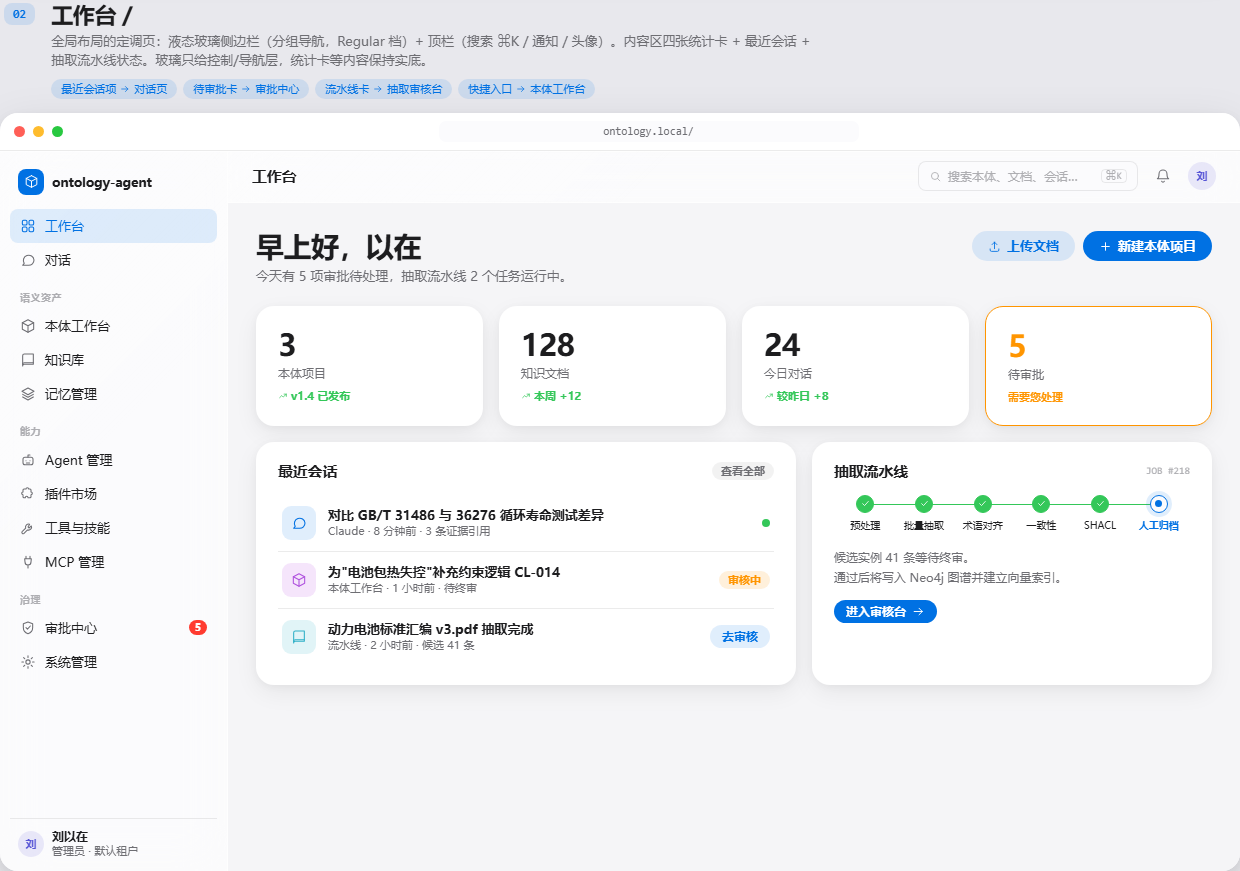
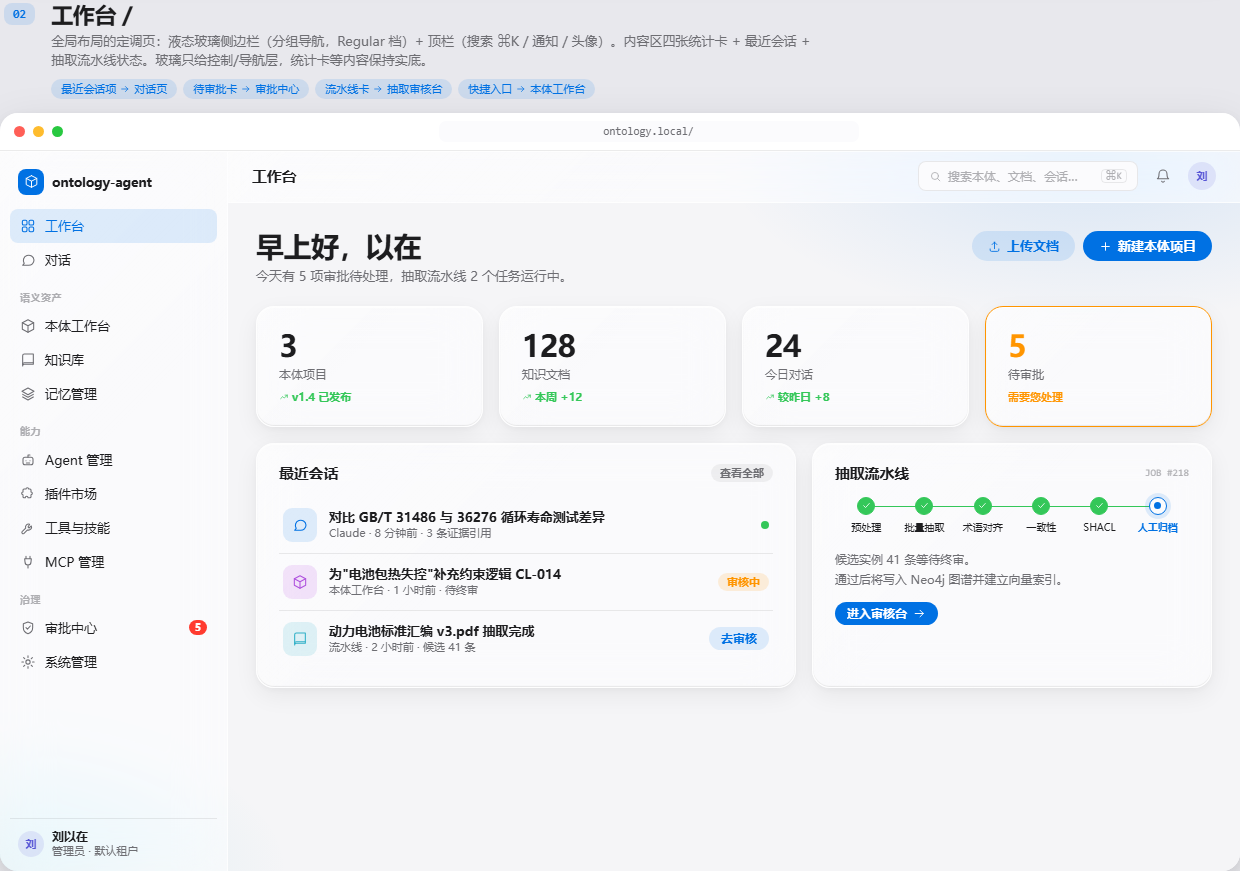
fix(design): 色系回归 Apple 用色纪律——中性主导≥90%+系统蓝单强调+语义色小剂量；氛围底去紫改蓝青同族，紫色降级为纯功能分类色（图谱/徽标）

diff --git a/docs/设计稿/components.html b/docs/设计稿/components.html
@@ -266,19 +266,19 @@
       </div>
       <div class="grid3" style="margin-top:12px">
         <div class="card"><div class="card-h" style="margin-bottom:10px"><h3 style="font-size:13.5px">Aurora 极光玻璃</h3><span class="badge b-gray" style="margin-left:auto">Magic UI</span></div>
-          <div class="glass glass-aurora" style="height:120px;border-radius:12px;position:relative;overflow:hidden;background:linear-gradient(135deg,var(--purple-soft),var(--teal-soft) 60%,var(--accent-soft))"><div style="position:absolute;inset:0;display:flex;align-items:center;justify-content:center;font-size:12px;font-weight:600">极光在玻璃内流动</div></div>
+          <div class="glass glass-aurora" style="height:120px;border-radius:12px;position:relative;overflow:hidden;background:linear-gradient(135deg,var(--accent-soft),var(--teal-soft) 60%,var(--indigo-soft))"><div style="position:absolute;inset:0;display:flex;align-items:center;justify-content:center;font-size:12px;font-weight:600">极光在玻璃内流动</div></div>
           <p class="text-faint" style="font-size:10.5px;margin-top:8px">.glass-aurora · 多色 radial + blur(28px) 交替漂移</p></div>
         <div class="card"><div class="card-h" style="margin-bottom:10px"><h3 style="font-size:13.5px">流光描边</h3><span class="badge b-gray" style="margin-left:auto">Aceternity BorderBeam</span></div>
-          <div class="glass border-flow" style="height:120px;border-radius:12px;position:relative;overflow:hidden;background:linear-gradient(135deg,var(--purple-soft),var(--teal-soft) 60%,var(--accent-soft))"><div style="position:absolute;inset:0;display:flex;align-items:center;justify-content:center;font-size:12px;font-weight:600">conic 光弧绕边旋转</div></div>
+          <div class="glass border-flow" style="height:120px;border-radius:12px;position:relative;overflow:hidden;background:linear-gradient(135deg,var(--accent-soft),var(--teal-soft) 60%,var(--indigo-soft))"><div style="position:absolute;inset:0;display:flex;align-items:center;justify-content:center;font-size:12px;font-weight:600">conic 光弧绕边旋转</div></div>
           <p class="text-faint" style="font-size:10.5px;margin-top:8px">.border-flow · @property 角度动画 + mask 描边</p></div>
         <div class="card"><div class="card-h" style="margin-bottom:10px"><h3 style="font-size:13.5px">噪点磨砂</h3><span class="badge b-gray" style="margin-left:auto">shuding/liquid-glass</span></div>
-          <div class="glass glass-noise" style="height:120px;border-radius:12px;position:relative;overflow:hidden;background:linear-gradient(135deg,var(--purple-soft),var(--teal-soft) 60%,var(--accent-soft))"><div style="position:absolute;inset:0;display:flex;align-items:center;justify-content:center;font-size:12px;font-weight:600">feTurbulence 颗粒消 Bands</div></div>
+          <div class="glass glass-noise" style="height:120px;border-radius:12px;position:relative;overflow:hidden;background:linear-gradient(135deg,var(--accent-soft),var(--teal-soft) 60%,var(--indigo-soft))"><div style="position:absolute;inset:0;display:flex;align-items:center;justify-content:center;font-size:12px;font-weight:600">feTurbulence 颗粒消 Bands</div></div>
           <p class="text-faint" style="font-size:10.5px;margin-top:8px">.glass-noise · SVG 噪点 overlay，磨砂不塑料</p></div>
         <div class="card"><div class="card-h" style="margin-bottom:10px"><h3 style="font-size:13.5px">指针追光</h3><span class="badge b-gray" style="margin-left:auto">Aceternity Spotlight</span></div>
-          <div class="glass glass-spotlight" style="height:120px;border-radius:12px;position:relative;overflow:hidden;background:linear-gradient(135deg,var(--purple-soft),var(--teal-soft) 60%,var(--accent-soft))" style="height:120px;border-radius:12px;position:relative;overflow:hidden;display:flex;align-items:center;justify-content:center;font-size:12px;font-weight:600;background:var(--glass-regular)">把鼠标移到我上面</div>
+          <div class="glass glass-spotlight" style="height:120px;border-radius:12px;position:relative;overflow:hidden;background:linear-gradient(135deg,var(--accent-soft),var(--teal-soft) 60%,var(--indigo-soft))" style="height:120px;border-radius:12px;position:relative;overflow:hidden;display:flex;align-items:center;justify-content:center;font-size:12px;font-weight:600;background:var(--glass-regular)">把鼠标移到我上面</div>
           <p class="text-faint" style="font-size:10.5px;margin-top:8px">.glass-spotlight · --mx/--my 高光跟随（JS 三行）</p></div>
         <div class="card"><div class="card-h" style="margin-bottom:10px"><h3 style="font-size:13.5px">幻彩流光</h3><span class="badge b-gray" style="margin-left:auto">社区全息配方</span></div>
-          <div class="glass iridescent" style="height:120px;border-radius:12px;position:relative;overflow:hidden;background:linear-gradient(135deg,var(--purple-soft),var(--teal-soft) 60%,var(--accent-soft))"><div style="position:absolute;inset:0;display:flex;align-items:center;justify-content:center;font-size:12px;font-weight:600">全息渐变缓慢流动</div></div>
+          <div class="glass iridescent" style="height:120px;border-radius:12px;position:relative;overflow:hidden;background:linear-gradient(135deg,var(--accent-soft),var(--teal-soft) 60%,var(--indigo-soft))"><div style="position:absolute;inset:0;display:flex;align-items:center;justify-content:center;font-size:12px;font-weight:600">全息渐变缓慢流动</div></div>
           <p class="text-faint" style="font-size:10.5px;margin-top:8px">.iridescent · 五色 linear 流动，screen 混合 14%</p></div>
         <div class="card"><div class="card-h" style="margin-bottom:10px"><h3 style="font-size:13.5px">透镜 Bevel + 深色档</h3><span class="badge b-gray" style="margin-left:auto">Hyalite / vaso</span></div>
           <div style="display:flex;gap:8px">
@@ -287,7 +287,7 @@
           </div>
           <p class="text-faint" style="font-size:10.5px;margin-top:8px">.glass-lens 四向镜面内阴影 · .glass-deep 媒体之上</p></div>
         <div class="card"><div class="card-h" style="margin-bottom:10px"><h3 style="font-size:13.5px">Blob 形变 + 浮动</h3><span class="badge b-gray" style="margin-left:auto">氛围层</span></div>
-          <div style="height:120px;border-radius:12px;position:relative;overflow:hidden;background:linear-gradient(135deg,var(--purple-soft),var(--teal-soft) 60%,var(--accent-soft))">
+          <div style="height:120px;border-radius:12px;position:relative;overflow:hidden;background:linear-gradient(135deg,var(--accent-soft),var(--teal-soft) 60%,var(--indigo-soft))">
             <div class="blob-morph" style="position:absolute;left:12%;top:14%;width:74px;height:74px;background:var(--accent-soft);filter:blur(2px)"></div>
             <div class="blob-morph float-y" style="position:absolute;right:14%;top:26%;width:60px;height:60px;background:var(--teal-soft);filter:blur(2px);animation-delay:-3s"></div>
             <div style="position:absolute;inset:0;display:flex;align-items:center;justify-content:center;font-size:12px;font-weight:600">登录页/空态氛围位</div></div>

diff --git a/docs/设计稿/assets/board.css b/docs/设计稿/assets/board.css
@@ -130,9 +130,8 @@ body{font-family:var(--font);background:var(--board);color:var(--label);
 /* ============ 应用骨架 ============ */
 .app{display:flex;height:720px;color:var(--label);font-size:14px;text-align:left;
   background:
-    radial-gradient(55% 45% at 88% 0%, var(--purple-soft), transparent 62%),
-    radial-gradient(45% 40% at 0% 100%, var(--teal-soft), transparent 60%),
-    radial-gradient(40% 35% at 25% 15%, var(--accent-soft), transparent 55%),
+    radial-gradient(50% 40% at 88% 0%, var(--accent-soft), transparent 60%),
+    radial-gradient(40% 35% at 0% 100%, var(--teal-soft), transparent 58%),
     var(--bg)}
 .sb{width:228px;flex:none;display:flex;flex-direction:column;
   background:linear-gradient(135deg,var(--glass-tint),transparent 42%),var(--glass-regular);

diff --git a/frontend/src/design-system/tokens/tokens.css b/frontend/src/design-system/tokens/tokens.css
@@ -36,7 +36,7 @@
 
   /* Aurora 极光/幻彩/追光（液态玻璃进阶效果） */
   --aurora-1:rgba(10,132,255,.5);
-  --aurora-2:rgba(175,45,222,.38);
+  --aurora-2:rgba(88,86,214,.38);
   --aurora-3:rgba(48,176,199,.45);
   --spotlight:rgba(255,255,255,.35);
   --glass-tinted:rgba(0,113,227,.78);       /* Tinted：强调色着色玻璃（主操作/选中，iOS 26） */

diff --git a/docs/架构设计/03-前端架构与UI设计规范.md b/docs/架构设计/03-前端架构与UI设计规范.md
@@ -36,7 +36,7 @@
 - **字体**：系统字体栈（SF Pro / 苹方 / 鸿蒙 / 雅黑降级链），大标题收紧字距，正文 15px 起步，层级靠字重与字号不靠颜色堆砌。
 - **形状（同心几何）**：卡片连续大圆角（16–18px）、按钮胶囊形（CTA）/ 10px（常规）、输入框 10px；**嵌套圆角必须同心**（外 18 内 10，圆心一致，Apple Liquid Glass 几何规则）；分隔线用 0.5px 发丝线。
 - **阴影**：极柔和双层阴影 + 玻璃层的 inset 高光/内阴影；hover 时轻微抬升。
-- **颜色（色系）**：克制的单强调色（系统蓝，iOS 26 系统蓝同源），语义色（红/绿/橙）只用于状态；**玻璃语境下语义色一律用 soft 底色，着色只出现在 Tinted 玻璃与选中态**（iOS 26：材质自适应亮暗与背后内容，不硬编码）；整体像 macOS/iOS 系统设置，不像后台管理系统。
+- **颜色（色系，对齐 Apple 用色纪律）**：**中性主导 ≥90% 面积**（白/黑/六级灰是绝对主体）+ **单强调色 ≤5%**（系统蓝 `#0071e3`/`#0a84ff`，用户可换）+ **语义色小剂量**（红绿橙只上状态点/徽标）+ **功能分类色**（紫/靛/青）只限图谱节点、层级徽标等小元素。大面积色彩永远来自"内容"（文档缩略图/图谱/插画）而非 UI 刷色——iOS 26 玻璃的"彩"是透出内容，不是自己上色；**氛围光斑只用蓝青同族，禁紫色大面积铺底**。整体像 macOS/iOS 系统设置，不像后台管理系统。
 - 动效：一切进出场都有位移 + 透明度过渡；时长令牌 `--dur-1 150ms`（微交互）/ `--dur-2 250ms`（标准过渡）/ `--dur-3 400ms`（强调入场）/ `--dur-4 700ms`（氛围），`ease-apple` 与 `spring` 曲线；液态玻璃动效（hover 光扫/sheen 循环/光斑漂移）与平台微交互（stagger/pulse-ring/流式光标/shimmer 骨架/不确定进度/tick）统一在样式库 **`styles/motion.css`**（24 篇 §4.9）；玻璃控件状态切换用 **morphing 弹簧**；尊重 `prefers-reduced-motion` 与 `prefers-reduced-transparency`（后者玻璃退化为实底）。
 
 ### 2.2 颜色令牌（亮 / 暗成对）
